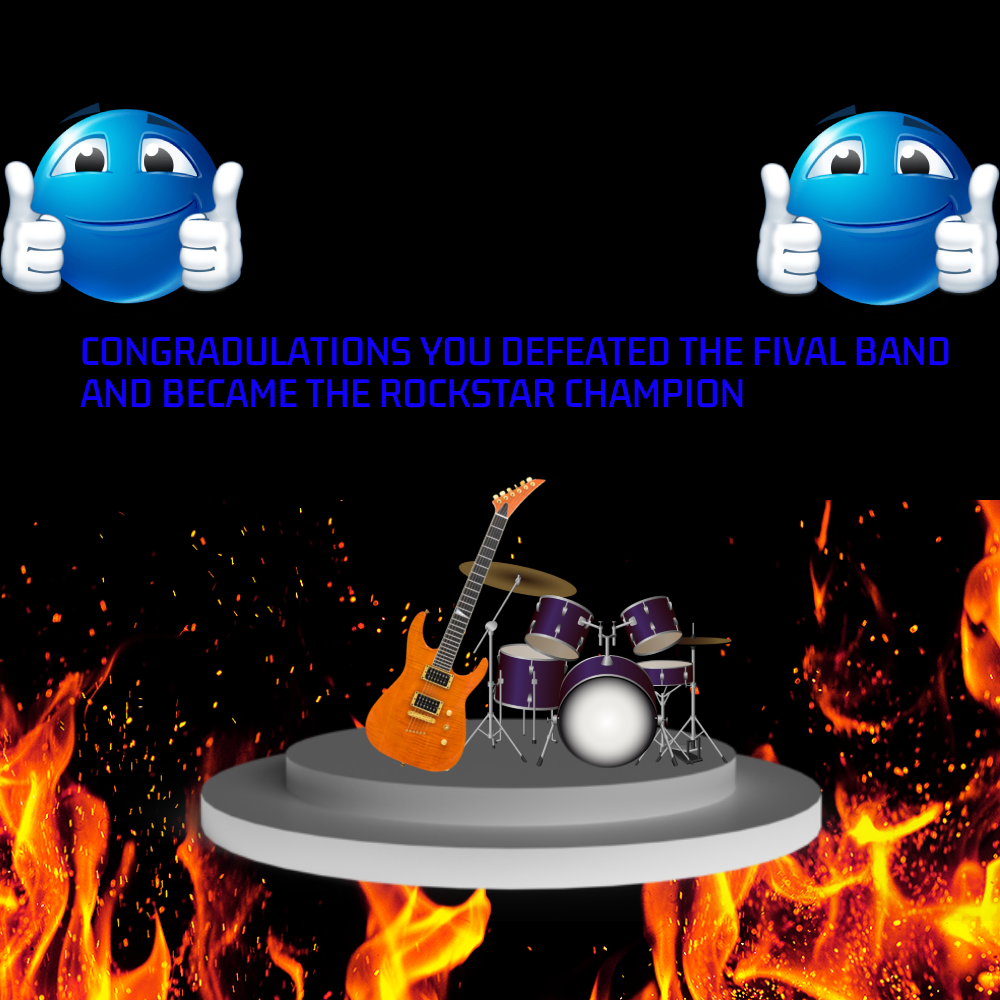
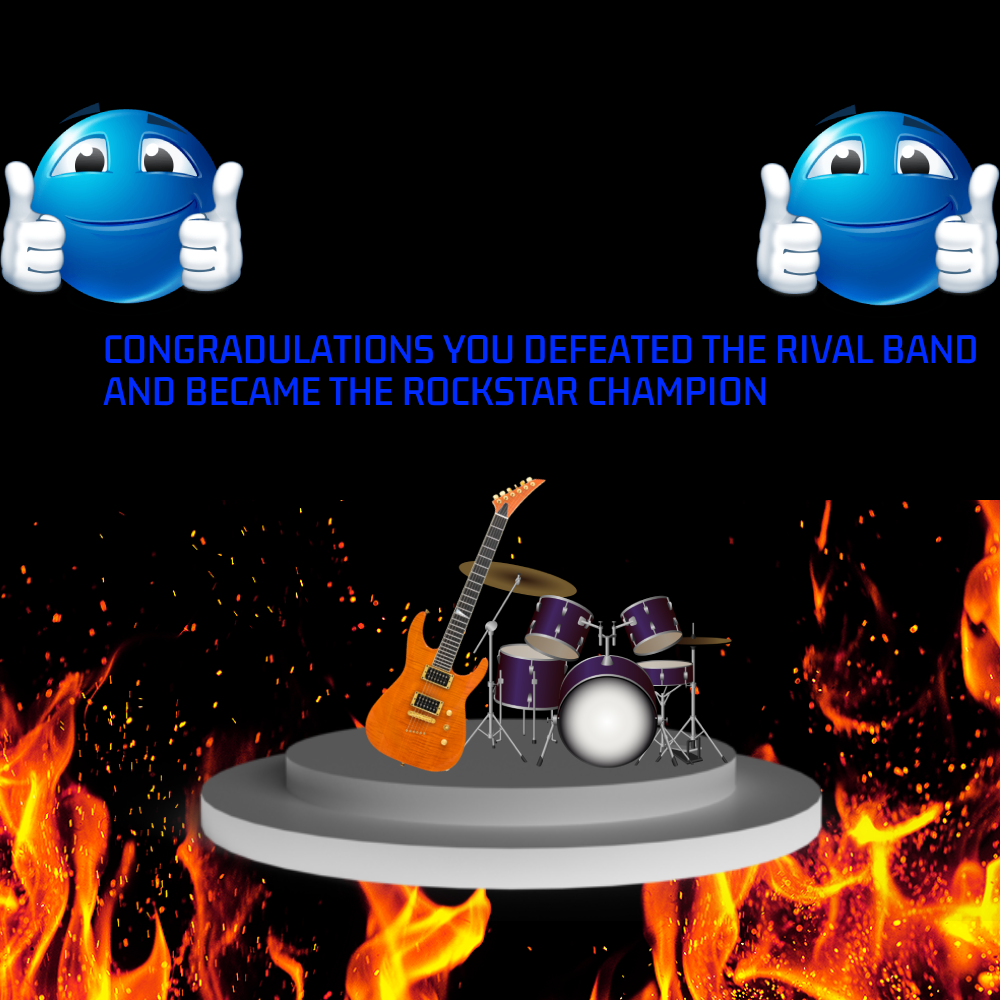
Co-authored-by: noel429 <noel429@users.noreply.github.com>

Changed region(s): [[0.062, 0.31, 0.992, 0.434]]

diff --git a/interfaces/password.py b/interfaces/password.py
@@ -29,6 +29,7 @@ def output(window):
         btn_exit.draw(window)
         window.blit(font.render("Username", True, (0, 0, 0)), (txt_username.rect.x, txt_username.rect.y - 30))
         window.blit(font.render("Password", True, (0, 0, 0)), (txt_password.rect.x, txt_password.rect.y - 30))
+        window.blit(font.render("Please create an account or login", True, (0, 0, 0)), (250, 100))
         
        
     
@@ -40,8 +41,21 @@ def output(window):
         for event in pygame.event.get():
             txt_group.update(pygame.mouse.get_pos(), event)
             if btn_create.update(pygame.mouse.get_pos(),event):
+                if objects.database.select_db(db_connection, "Password", [f"username='{txt_username.text}'"]).fetchall():
+                    window.blit(font.render("Username already exists", True, (255, 0, 0)), (250, 600))
+                    pygame.display.update()
+                    pygame.time.delay(3000)
+                    break
+                    
+                if not txt_username.text or not txt_password.text:
+                    window.blit(font.render("Please fill in all fields", True, (255, 0, 0)), (250, 600))
+                    pygame.display.update()
+                    pygame.time.delay(3000)
+                    break
                 objects.database.insert_db(db_connection, "Password", ["username","Password","level"],[txt_username.text,txt_password.text,0])
-                print("Data inserted successfully")
+                window.blit(font.render("Account created successfully", True, (0, 255, 0)), (250, 600))
+                pygame.display.update()
+                pygame.time.delay(3000)
                 data = objects.database.select_db(db_connection, "Password", [f"username='{txt_username.text}'", f"password='{txt_password.text}'"]).fetchall()
                 manager.screen = 2
                 manager.username = txt_username.text
@@ -52,7 +66,7 @@ def output(window):
             if btn_login.update(pygame.mouse.get_pos(),event):
                 data = objects.database.select_db(db_connection, "Password", [f"username='{txt_username.text}'", f"password='{txt_password.text}'"]).fetchall()
                 if data:
-                    print("Login successful")
+                    window.blit(font.render("Login successful", True, (0, 255, 0)), (250, 600))
                     manager.screen = 2
                     manager.username = txt_username.text
                     manager.password = txt_password.text
@@ -60,7 +74,9 @@ def output(window):
                     manager.id = data[0][0] 
                     run = False
                 else:
-                    print("Login failed")
+                    window.blit(font.render("Login failed", True, (255, 0, 0)), (250, 600))
+                    pygame.display.update()
+                    pygame.time.delay(3000)
             if btn_exit.update(pygame.mouse.get_pos(),event):
                 pygame.quit() 
                 sys.exit()

diff --git a/interfaces/end_screen.py b/interfaces/end_screen.py
@@ -1,0 +1,36 @@
+import pygame
+import manager
+import sys
+import objects.image
+import objects.buttons
+from pygame import mixer
+mixer.init()
+def output(window):
+    bg= objects.image.still(0,0,1000,1000,'images/end_screen.png')
+    btn_return = objects.buttons.no_background(375,800,"Arial",35,(235, 64, 52),(98, 52, 235),"Return to menu")
+    
+    
+    
+ 
+    def display():
+        window.fill((0,0,0)) #White background
+        bg.draw(window)
+        btn_return.draw(window)
+        
+    
+    run = True
+    while run:    
+        
+        display()
+        for event in pygame.event.get():
+            if btn_return.update(pygame.mouse.get_pos(),event):
+                manager.screen = 0
+                run = False
+        # if user  QUIT then the screen will close
+            if event.type == pygame.QUIT:
+                pygame.quit()
+                sys.exit()
+
+    
+        pygame.display.flip() #update the display
+        manager.fpsClock.tick(manager.fps) #speed of redraw   

diff --git a/interfaces/boss.py b/interfaces/boss.py
@@ -125,11 +125,11 @@ def output(window):
                 if remove:
                     heavy_notes.remove(note)
         if back.live <= 0:
-            manager.screen = 5
+            manager.screen = 17
             run = False
             db_connection = objects.database.create_connection("database.db")
             manager.level = 4
-            objects.database.update_db(db_connection,"Password",[f"username='{manager.username}'", f"password='{manager.password}'"],f"level={manager.level}")
+            objects.database.update_db(db_connection,"Password",[f"level={manager.level}"], f"id={manager.id}")
             
 
         if enemy_timer <= 0:

diff --git a/main.py b/main.py
@@ -22,6 +22,7 @@ import interfaces.c3
 import interfaces.c4
 import interfaces.gc
 import interfaces.credit
+import interfaces.end_screen
 pygame.init()
 
 
@@ -64,3 +65,5 @@ while True:
         interfaces.gc.output(window)
     if manager.screen == 16:
         interfaces.credit.output(window)
+    if manager.screen == 17:
+        interfaces.end_screen.output(window)
